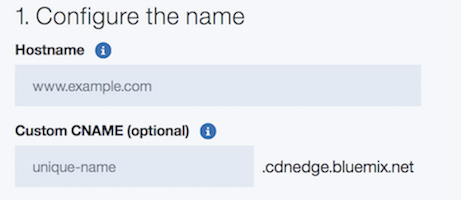
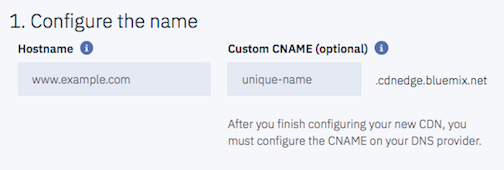
latest updates

diff --git a/how-to-order.md b/how-to-order.md
@@ -2,12 +2,12 @@
 
 copyright:
   years: 2017,2018
-lastupdated: "2018-06-28"
+lastupdated: "2018-07-17"
 
 ---
 
 {:shortdesc: .shortdesc}
-{:new_window: target="_blank"}
+{:new_window: target="blank"}
 {:codeblock: .codeblock}
 {:pre: .pre}
 {:screen: .screen}
@@ -47,62 +47,63 @@ Select **Create** at the bottom right, which takes you to the Vendor Selection s
 
 **Step 2:**
 
-From the **Select a CDN Provider** screen, choose among the CDN provider options. Click the **Select** button to confirm your selected options, then click **Next** at the bottom right of your screen, to start the provisioning process.  
-       ![Select CDN provider](images/Vendor_Select_And_Provision.png)
+From the **Select a CDN Provider** screen, choose among the CDN provider options. Click the **Select** button to confirm the selected provider, then click **Next** at the bottom right of your screen, to start the provisioning process.
+
+   ![Select CDN provider](images/select-provider.png)
 
 **Step 3:**
 
 Fill out the **Configure Name** field:  
 
   * Specify the **Hostname** (**required**), which serves as the primary identifier for your CDN (for example, `example.testingcdn.net`).  
-  * Optionally, you may provide a custom **CNAME** (such as `myfirstcdn.cdnedge.bluemix.net`). If no CNAME is provided, one will be created for you.  
+  * Optionally, you may provide a custom **CNAME** (such as `myfirstcdn.cdnedge.bluemix.net`). If no CNAME is provided, one will be created for you. The suffix `cdnedge.bluemix.net` is automatically appended to the CNAME. Use of an inappropriate CNAME may lead to termination of services.
 
        ![Configure Name](images/configure-hostname-cname.png)  
 
-    **Note**: Use of an inappropriate CNAME may lead to termination of services.
+    **Note**: After provisioning your new CDN, you **must** configure the CNAME with your DNS provider.
 
 **Step 4:**
 
 Fill out the **Configure Your Origin** field: To configure this field, you must select either the **Server** or the **Object Storage** option.  
 
-   * Specify the **Host header** (optional). If one is not provided, it will default to the **Hostname**. Please see the feature description for [Host header support](feature-descriptions.html#host-header-support) for more information about the Host header.  
+  * **Step 4, Option 1: The Server Option**
 
-   * Provide a **Path** (optional). The Path should be relative to the **Hostname**.
+     ![Configure Origin](images/configure-origin-server.png)
 
-      ![Configure Origin](images/configure-origin.png)  
+      * You must specify the **Origin Server Address** (hostname or IPv4 address of the Origin Server). If **HTTPS port** is also selected, the **Origin Server Address** must be the hostname and not IP address.
 
-  * **The Server Option**: If you select the **Server** option, enter the hostname or IP address of the Origin Server from which data should be cached.
-      * You must specify the **Origin Server Address** (hostname or IPv4 address of the Origin Server) if you select this option. If **HTTPS port** is selected, the **Origin Server Address** must be hostname and not IP address.
+      * Specify the **Host header** (optional). If one is not provided, it defaults to the **Hostname**. Please see the feature description for [Host header support](feature-descriptions.html#host-header-support) for more information about the Host header.  
+
+      * Provide a **Path** where content can be retrieved from on the Origin (optional). Please see the feature description for [Path-based CDN mappings](feature-descriptions.html#path-based-cdn-mappings) to understand the implications of adding a path at this time.
+
       * You may also provide an **HTTP port**, an **HTTPS port**, or both. These fields indicate which protocol and port number can be used to contact the Origin Server. For non-default port numbers, please refer to [the FAQ](faqs.html#are-there-any-restrictions-on-what-http-and-https-port-numbers-are-allowed-for-akamai) for a list of allowed port numbers.
-      * **SSL Certificate** This option will appear _only_ when HTTPS Port is selected. \*Additional information for HTTPS and SSL Certificate configurations is following the Object Storage Option description.
 
-	     ![Configure origin server](images/configure-origin-server.png)
+      * **SSL Certificate** This option appears _only_ when HTTPS Port is selected. If you select **HTTPS Port** for either Server or Object Storage, you can choose **Wildcard** or **DV SAN Certificate** as your SSL Certificate option. Both offer the enhanced security provided by HTTPS.
+        * **Wildcard Certificate** allows HTTPS traffic only when using the **CNAME** and requires no further action on your part
+        * **DV SAN Certificate** allows HTTPS traffic over your domain, but requires additional steps to verify. See the [Completing Domain Control Validation for HTTPS](how-to-https.html#completing-domain-control-validation-for-https) page to understand the steps required and time constraints involved with choosing this option.
 
-  * **The Object Storage Option**: If you select the **Object Storage** option, you must provide the following information:
-      * the **Endpoint** from which to fetch the Object,
-      * the name of the **Bucket** in which your content is stored, and
-      * the **HTTPS port**.
-      * **SSL Certificate** This option will appear _only_ when HTTPS Port is selected. \*Additional information for HTTPS and SSL Certificate configurations is following the Object Storage Option description.
-      * You also may specify the file extensions, separated by commas, that can be used in the CDN service.(If no file name extensions are specified, all file extensions are allowed.)
-      * You must set the **Access Control List** (ACL) for each **Object** in your **Bucket** to "public-read".
+	     ![Configure origin server](images/ssl-cert-options.png)
 
-      	  ![Configure object storage](images/configure-origin-cos.png)
+  * **Step 4, Option 2: The Object Storage Option**
 
-  * **SSL Certificate**: If you select **HTTPS Port** for either Server or Object Storage, you can choose **Wildcard** or **DV SAN Certificate** as your **SSL Certificate** option. Both offer  the enhanced security provided by HTTPS.
+    ![Configure Object storage](images/configure-origin-object-storage.png)
 
-    * **Wildcard Certificate** allows HTTPS traffic only when using the **CNAME** and requires no further action on your part
-    * **DV SAN Certificate** allows HTTPS traffic over your domain, but requires additional steps to verify.
+      * You **must** specify the **Endpoint** from which to fetch the object.
 
-        ![Configure HTTPS](images/configure-https.png)
+      * Specify the **Host header** (optional). If one is not provided, it defaults to the **Hostname**. Please see the feature description for [Host header support](feature-descriptions.html#host-header-support) for more information about the Host header.  
 
-**Step 5:**
+      * Provide a **Path** where content can be retrieved from on the Origin (optional). Please see the feature description for [Path-based CDN mappings](feature-descriptions.html#path-based-cdn-mappings) to understand the implications of adding a path here.
 
-Configure the **Other Options** field: This section contains configuration options for the **Respect Headers** field.
+      * You **must** provide the name of the **Bucket** in which your content is stored.
 
-   * When the **Respect Headers** option is **On**, the TTL settings defined in header by the Origin will override the default CDN TTL. **Respect Headers** is set to **On** by default, but you must configure this field.  
+      * You may also provide an **HTTP port**, an **HTTPS port**, or both. These fields indicate which protocol and port number can be used to contact the Origin Server. For non-default port numbers, please refer to [the FAQ](faqs.html#are-there-any-restrictions-on-what-http-and-https-port-numbers-are-allowed-for-akamai) for a list of allowed port numbers.
 
-        ![Other options](images/other-options.png)
+      * **SSL Certificate** This option appears _only_ when HTTPS Port is selected. If you select **HTTPS Port** for either Server or Object Storage, you can choose **Wildcard** or **DV SAN Certificate** as your SSL Certificate option. Both offer the enhanced security provided by HTTPS.
+        * **Wildcard Certificate** allows HTTPS traffic only when using the **CNAME** and requires no further action on your part
+        * **DV SAN Certificate** allows HTTPS traffic over your domain, but it requires additional steps to verify. See the [Completing Domain Control Validation for HTTPS](how-to-https.html#completing-domain-control-validation-for-https) page to understand the steps required and time constraints involved with choosing this option.
 
-**Step 9:**
+        ![Configure HTTPS](images/ssl-cert-options.png)
+
+      **NOTE** You must set the **Access Control List** (ACL) for each Object in your Bucket to "public-read" with your cloud object storage provider.
 
 Select the **Create** button in the bottom right corner to create your CDN.

diff --git a/feature-descriptions.md b/feature-descriptions.md
@@ -2,7 +2,7 @@
 
 copyright:
   years: 2018
-lastupdated: "2018-06-28"
+lastupdated: "2018-07-13"
 
 ---
 
@@ -34,7 +34,7 @@ In certain cases, you may want to deliver certain content from a different Origi
 
 ## Path-based CDN mappings
 
-Your IBM Cloud CDN service can be restricted to a particular directory path on the Origin server by providing the path when creating the CDN. An end-user is allowed access only to those contents in that directory path. For example if a CDN `www.example.com` is created with Path `/videos`, it is accessible only via `www.example.com/videos/`.
+Your IBM Cloud CDN service can be restricted to a particular directory path on the Origin server by providing the path when creating the CDN. An end-user is allowed access only to those contents in that directory path. For example if a CDN `www.example.com` is created with Path `/videos`, it is accessible **only** through `www.example.com/videos/*`.
 
 ## Purge cached content
 
@@ -60,7 +60,7 @@ The Edge server uses the **Host Header** when communicating with the Origin host
 
 ## HTTPS Protocol support
 
-CDN can be configured to use HTTPS protocol to serve the content securely to the end users. This configuration requires that an SSL certificate must be set up as part of the CDN configuration. Two types of SSL certificate options are available for HTTPS: [Wildcard certificate](about-https.html#Wildcard-Certificate-support) and [Domain validated (DV) Subject Alternative Name (SAN) certificate](about-https.html#subject-alternate-name-san-certificate-support). This type also will be referred to as a _SAN certificate_ in this documentation.
+CDN can be configured to use HTTPS protocol to serve the content securely to the end users. This configuration requires that an SSL certificate must be set up as part of the CDN configuration. Two types of SSL certificate options are available for HTTPS: [Wildcard certificate](about-https.html#wildcard-certificate-support) and [Domain validated (DV) Subject Alternative Name (SAN) certificate](about-https.html#subject-alternate-name-san-certificate-support). This type also will be referred to as a _SAN certificate_ in this documentation.
 
 The type of SSL Certificate to use is an important consideration for HTTPS CDN. Wildcard certificate configuration setup is fast, but it has the downside that the CDN is accessible only by means of a CNAME. The SAN certificate process takes 4 to 8 hours to complete, but it provides the ability to use the CDN with the CDN Domain (that is, the Hostname). The SAN Certificate also requires an additional step of [**Domain Control Validation**](how-to-https.html) during configuration. No cost is associated with using either of these certificates. Please refer to the [Troubleshooting document](troubleshooting.html#what-is-the-expected-behavior-when-loading-the-cname-or-hostname-on-your-browser-for-the-supported-protocols-) to understand the implication of selecting a given Certificate type.
 

diff --git a/how-to.md b/how-to.md
@@ -2,7 +2,7 @@
 
 copyright:
   years: 2017, 2018
-lastupdated: "2018-07-02"
+lastupdated: "2018-07-13"
 
 ---
 
@@ -79,11 +79,11 @@ Select either **Server** or **Object Storage**.
 
   * **Optimization** and **Cache Key** options are the same for the Server and the Object Storage configurations.
 
-    * Choose **Optimization** options from the drop-down menu. **General web delivery** is the default option, or you can choose **Large file** or **Video on demand** optimizations. **General web delivery** allows the CDN to serve content up to 1.8GB, while **Large file** optimization allows downloads of files from 1.8GB to 320GB. **Video on demand** optimizes your CDN for delivery of segmented streaming formats. The Feature descriptions for [Large file optimization](about.html#large-file-optimization) and [Video on Demand](about.html#video-on-demand) provide further information.
+    * Choose **Optimization** options from the drop-down menu. **General web delivery** is the default option, or you can choose **Large file** or **Video on demand** optimizations. **General web delivery** allows the CDN to serve content up to 1.8GB, while **Large file** optimization allows downloads of files from 1.8GB to 320GB. **Video on demand** optimizes your CDN for delivery of segmented streaming formats. The Feature descriptions for [Large file optimization](feature-descriptions.html#large-file-optimization) and [Video on Demand](feature-descriptions.html#video-on-demand) provide further information.
 
         ![Performance configuration options](images/performance-config-options.png)
 
-    * Choose **Cache Key** options from the drop-down menu. The default option is **Include-all**. If you select **Include specified** or **Ignore specified**, you **must** enter query strings to be included or ignored, separated by a space. For example, enter `uuid=123456` for a single query string, or `uuid=123456 issue=important` for two query strings.  You can find out more about [Cache Key Query Args](about.html#cache-key-query-args) in the feature description.
+    * Choose **Cache Key** options from the drop-down menu. The default option is **Include-all**. If you select **Include specified** or **Ignore specified**, you **must** enter query strings to be included or ignored, separated by a space. For example, enter `uuid=123456` for a single query string, or `uuid=123456 issue=important` for two query strings.  You can find out more about [Cache Key Query Args](feature-descriptions.html#cache-key-query-args) in the feature description.
 
         ![Cache key options](images/cache-key-options.png)
 

diff --git a/mapping-container.md b/mapping-container.md
@@ -2,7 +2,7 @@
 
 copyright:
   years: 2017, 2018
-lastupdated: "2018-05-10"
+lastupdated: "2018-07-13"
 
 ---
 
@@ -25,8 +25,8 @@ class `SoftLayer_Container_Network_CdnMarketplace_Configuration_Mapping`:
 * `protocol`: Protocol used to set up services. It can be HTTP, HTTPS or a combination of the two, HTTP_AND_HTTPS.
 * `originType`: Type of the Origin host, currently 'HOST_SERVER' or 'OBJECT_STORAGE'.
 * `originHost`: Origin server address (either the hostname or the IPv4 address of the Origin Server), which is the endpoint from which to fetch content, or the name of the Bucket where content is stored. It must be less than 511 characters.
-* `httpPort`:  Number of the port used for HTTP protocol. Akamai has certain limitations on port numbers for HTTP and HTTPS ports. Please see the [FAQ](faq.html#are-there-any-restrictions-on-what-http-and-https-port-numbers-are-allowed-for-akamai-) for allowed port numbers.
-* `httpsPort`:  Number of the port used for HTTPS protocol. Akamai has certain limitations on port numbers for HTTP and HTTPS ports. Please the see [FAQ](faq.html#are-there-any-restrictions-on-what-http-and-https-port-numbers-are-allowed-for-akamai-) for allowed port numbers.
+* `httpPort`:  Number of the port used for HTTP protocol. Akamai has certain limitations on port numbers for HTTP and HTTPS ports. Please see the [FAQ](faqs.html#are-there-any-restrictions-on-what-http-and-https-port-numbers-are-allowed-for-akamai-) for allowed port numbers.
+* `httpsPort`:  Number of the port used for HTTPS protocol. Akamai has certain limitations on port numbers for HTTP and HTTPS ports. Please the see [FAQ](faqs.html#are-there-any-restrictions-on-what-http-and-https-port-numbers-are-allowed-for-akamai-) for allowed port numbers.
 * `certificateType`: Type of certificate being used by a mapping. May be `WILDCARD_CERT` or `SHARED_SAN_CERT`. Value will be 0 for HTTP mappings.
 * `cname`: Canonical name record that aliases the hostname. It may be provided by the user, or system-generated. If user-provided, it should be less than 64 alphanumeric characters, and it must be unique. If not provided, one will be generated when the mapping is created.
 * `respectHeaders`: A Boolean value that, if set to 'true', causes TTL settings in the Origin to override CDN TTL settings.

diff --git a/input-container.md b/input-container.md
@@ -2,7 +2,7 @@
 
 copyright:
   years: 2017, 2018
-lastupdated: "2018-06-07"
+lastupdated: "2018-07-13"
 
 ---
 
@@ -23,8 +23,8 @@ The Input Container is a collection utilized by both the Mapping and (Origin) Pa
 The following attributes are common to the Mapping and (Origin) Path classes:
 * `originType`: Type of the Origin host, currently 'HOST_SERVER' or 'OBJECT_STORAGE'.
 * `origin`: Origin server address (either the hostname or the IPv4 address of the Origin Server), the endpoint from which to fetch content, or the name of the bucket where content is stored. Must be less than 511 characters.
-* `httpPort`: Number of the port used for HTTP protocol. Akamai has certain limitations on port numbers for HTTP and HTTPS ports. Please see the [FAQ](faq.html#are-there-any-restrictions-on-what-http-and-https-port-numbers-are-allowed-for-akamai-) for a list of allowed port numbers.
-* `httpsPort`: Number of the port used for HTTPS protocol. Akamai has certain limitations on port numbers for HTTP and HTTPS ports. Please see the [FAQ](faq.html#are-there-any-restrictions-on-what-http-and-https-port-numbers-are-allowed-for-akamai-) for a list of allowed port numbers.
+* `httpPort`: Number of the port used for HTTP protocol. Akamai has certain limitations on port numbers for HTTP and HTTPS ports. Please see the [FAQ](faqs.html#are-there-any-restrictions-on-what-http-and-https-port-numbers-are-allowed-for-akamai-) for a list of allowed port numbers.
+* `httpsPort`: Number of the port used for HTTPS protocol. Akamai has certain limitations on port numbers for HTTP and HTTPS ports. Please see the [FAQ](faqs.html#are-there-any-restrictions-on-what-http-and-https-port-numbers-are-allowed-for-akamai-) for a list of allowed port numbers.
 * `status`:  The status of the mapping or path. Status can be CNAME_CONFIGURATION, SSL_CONFIGURATION, RUNNING, STOPPED, DELETED, or ERROR.
 * `path`: Path from which the cached content will be served. The default path is /\* When used by the `updateOriginPath` API, this attribute refers to the new path to be added.
 * `performanceConfiguration`: Specifications for the performance configuration of the mapping.

diff --git a/troubleshooting.md b/troubleshooting.md
@@ -2,7 +2,7 @@
 
 copyright:
   years: 2018
-lastupdated: "2018-07-09"
+lastupdated: "2018-07-13"
 
 ---
 
@@ -97,7 +97,7 @@ This table shows the behavior expected for the supported protocols when loading 
 </thead>
 <tbody>
 <tr>
-<td> http://hostname </td>
+<td> `http://hostname` </td>
 <td> Successful load </td>
 <td> 301 Moved permanently </td>
 <td> Successful load </td>
@@ -105,7 +105,7 @@ This table shows the behavior expected for the supported protocols when loading 
 <td> Successful load </td>
 </tr>
 <tr>
-<td> https://hostname</td>
+<td> `https://hostname`</td>
 <td> Access denied </td>
 <td> Redirects to IBM Cloud Webpage </td>
 <td> Successful load </td>
@@ -113,7 +113,7 @@ This table shows the behavior expected for the supported protocols when loading 
 <td> Successful load </td>
 </tr>
 <tr>
-		<td> http://cname </td>
+		<td> `http://cname` </td>
 		<td> 301 Moved permanently </td>
 		<td> Successful load </td>
 		<td> 301 Moved permanently </td>
@@ -121,7 +121,7 @@ This table shows the behavior expected for the supported protocols when loading 
 		<td> 301 Moved permanently </td>
 </tr>
 <tr>
-		<td> https://cname </td>
+		<td> `https://cname` </td>
 		<td> Redirects to IBM Cloud Webpage </td>
 		<td> Successful load </td>
 		<td> 301 Moved permanently </td>

diff --git a/about.md b/about.md
@@ -2,7 +2,7 @@
 
 copyright:
   years: 2017, 2018
-lastupdated: "2018-06-28"
+lastupdated: "2018-07-11"
 
 ---
 
@@ -21,6 +21,8 @@ A Content Delivery Network (CDN) is a collection of edge servers that are distri
 ## How does a CDN work?
 
 A CDN achieves its purpose by caching web content on edge servers around the world. When a customer requests web content, the content request is routed to the edge server that is geographically closest to that customer. By reducing the distance the content must travel, the CDN offers optimized throughput, minimized latency, and increased performance. Using IBM Cloud Content Delivery Network with Akamai, content providers can realize efficient delivery of requested content from around the globe, with minimal configuration.
+
+## Features
 
 The key features of the IBM Cloud Content Delivery Network service include:
   * Host Server Origin support
@@ -42,6 +44,6 @@ Please see [this document](feature-descriptions.html#feature-descriptions) for f
 
 ## Architectural Diagram
 
-The folllowing diagram offers a schematic overview of the three-tier architecture of IBM Cloud CDN.
+The following diagram offers a schematic overview of the three-tier architecture of IBM Cloud CDN.
 
 ![Architectural diagram](images/3-tier-architecture.png)

diff --git a/whats-new.md b/whats-new.md
@@ -2,7 +2,7 @@
 
 copyright:
   years: 2018
-lastupdated: "2018-06-20"
+lastupdated: "2018-07-13"
 
 ---
 
@@ -20,11 +20,11 @@ IBM Cloud launched the CDN service with Akamai in September 2017, but we haven't
 
 ## June 2018
 
-* HTTPS with DV SAN support [feature description](about.html#https-protocol-support-with-wildcard-and-dv-san-certificate)
+* HTTPS with DV SAN support [feature description](feature-descriptions.html#https-protocol-support)
 * IBM Content Delivery Network adheres to the EU General Data Protection Regulation (GDPR) and compliance requirements. Our privacy practices are detailed in the [IBM Privacy Statement](https://www.ibm.com/privacy/us/en/).
 
 ## March 2018
 
-  * Large File Optimization [feature description](about.html#large-file-optimization)
-  * Cache Key Optimization [feature description](about.html#cache-key-query-args)
-  * Video On Demand Optimization [feature description](about.html#video-on-demand-optimization)
+  * Large File Optimization [feature description](feature-descriptions.html#large-file-optimization)
+  * Cache Key Optimization [feature description](feature-descriptions.html#cache-key-query-args)
+  * Video On Demand Optimization [feature description](feature-descriptions.html#video-on-demand-optimization)

diff --git a/basic-functions.md b/basic-functions.md
@@ -2,7 +2,7 @@
 
 copyright:
   years: 2018
-lastupdated: "2018-06-28"
+lastupdated: "2018-07-13"
 
 ---
 
@@ -47,7 +47,7 @@ Any time after you've configured the CNAME with your DNS provider, you may check
 
 When the CNAME chaining is complete, selecting **Get Status** will change the status to *RUNNING*, and the CDN is ready to use.
 
-Congratulations! Your CDN is now running. From here, the [Manage your CDN](how-to.html#manage-your-CDN) page has additional information on configuring options, such as [Time to Live](how-to.html#setting-content-caching-time-using-time-to-live-), [Purging Cached Content](how-to.html#purging-cached-content), and [Adding Origin Path details](how-to.html#adding-origin-path-details).
+Congratulations! Your CDN is now running. From here, the [Manage your CDN](how-to.html#manage-your-cdn) page has additional information on configuring options, such as [Time to Live](how-to.html#setting-content-caching-time-using-time-to-live-), [Purging Cached Content](how-to.html#purging-cached-content), and [Adding Origin Path details](how-to.html#adding-origin-path-details).
 
 ## Starting CDN
 

diff --git a/cdn-example-code.md b/cdn-example-code.md
@@ -2,7 +2,7 @@
 
 copyright:
   years: 2017, 2018
-lastupdated: "2018-06-06"
+lastupdated: "2018-07-13"
 
 ---
 
@@ -182,7 +182,7 @@ catch (\Exception $e) {
 
 This example shows you how to create a new CDN mapping using the `createDomainMapping` API. It takes a single parameter of a `stdClass` object. The SoapClient should be initialized using the `SoftLayer_Network_CdnMarketplace_Configuration_Mapping` class as shown in the example.
 
-**NOTE**: if you choose to provide a custom CNAME, it **must** end with `.cdnedge.bluemix.net` or an error will be thrown. See [this description](rules-and-naming-conventions.html#what-are-the-custom-cname-naming-conventions) for rules on providing your own CNAME.
+**NOTE**: if you choose to provide a custom CNAME, it **must** end with `.cdnedge.bluemix.net` or an error will be thrown. See [this description](rules-and-naming-conventions.html#what-are-the-custom-cname-naming-conventions-) for rules on providing your own CNAME.
 
 ```php
 

diff --git a/faqs.md b/faqs.md
@@ -2,7 +2,7 @@
 
 copyright:
   years: 2017, 2018
-lastupdated: "2018-06-19"
+lastupdated: "2018-07-17"
 
 ---
 
@@ -60,7 +60,7 @@ If you provide a path while creating your CDN, it allows you to isolate the file
 
 ## My CDN is in an Error State. What do I do now?
 
-Please refer to the [Troubleshooting](troubleshooting.html#troubleshooting) or [Getting Help and Support](https://console.stage1.bluemix.net/docs/infrastructure/CDN/getting-help.html#getting-help) pages, or open a ticket in the [Customer Portal ![External link icon](../../icons/launch-glyph.svg "External link icon")](https://control.softlayer.com/).
+Please refer to the [Troubleshooting](troubleshooting.html#troubleshooting) or [Getting Help and Support](getting-help.html#getting-help-and-support) pages, or open a ticket in the [Customer Portal ![External link icon](../../icons/launch-glyph.svg "External link icon")](https://control.softlayer.com/).
 
 ## Where do I find my CNAME if I didn't provide one?
 

diff --git a/getting-started.md b/getting-started.md
@@ -2,12 +2,12 @@
 
 copyright:
   years: 2017, 2018
-lastupdated: "2018-06-07"
+lastupdated: "2018-07-13"
 
 ---
 
 {:shortdesc: .shortdesc}
-{:new_window: target="-blank"}
+{:new_window: target="blank"}
 {:codeblock: .codeblock}
 {:pre: .pre}
 {:screen: .screen}
@@ -27,10 +27,6 @@ If you need assistance in obtaining an account to use IBM Cloud Content Delivery
 ## Tutorial
 
 [Here's a tutorial](https://console.bluemix.net/docs/tutorials/static-files-cdn.html#accelerate-delivery-of-static-files-using-a-cdn) on creating a Content Delivery Network for IBM Cloud Object Storage.
-
-## Already have an account?
-
-Existing CDN customers have access to their accounts through the new [IBM Cloud CDN portal](https://control.softlayer.com). If you have an existing account, you can now access your Content Delivery Network from the **Network** tab, rather than from the **Storage** tab.
 
 ## CDN Bandwidth Pricing (Rates shown in USD)
 
